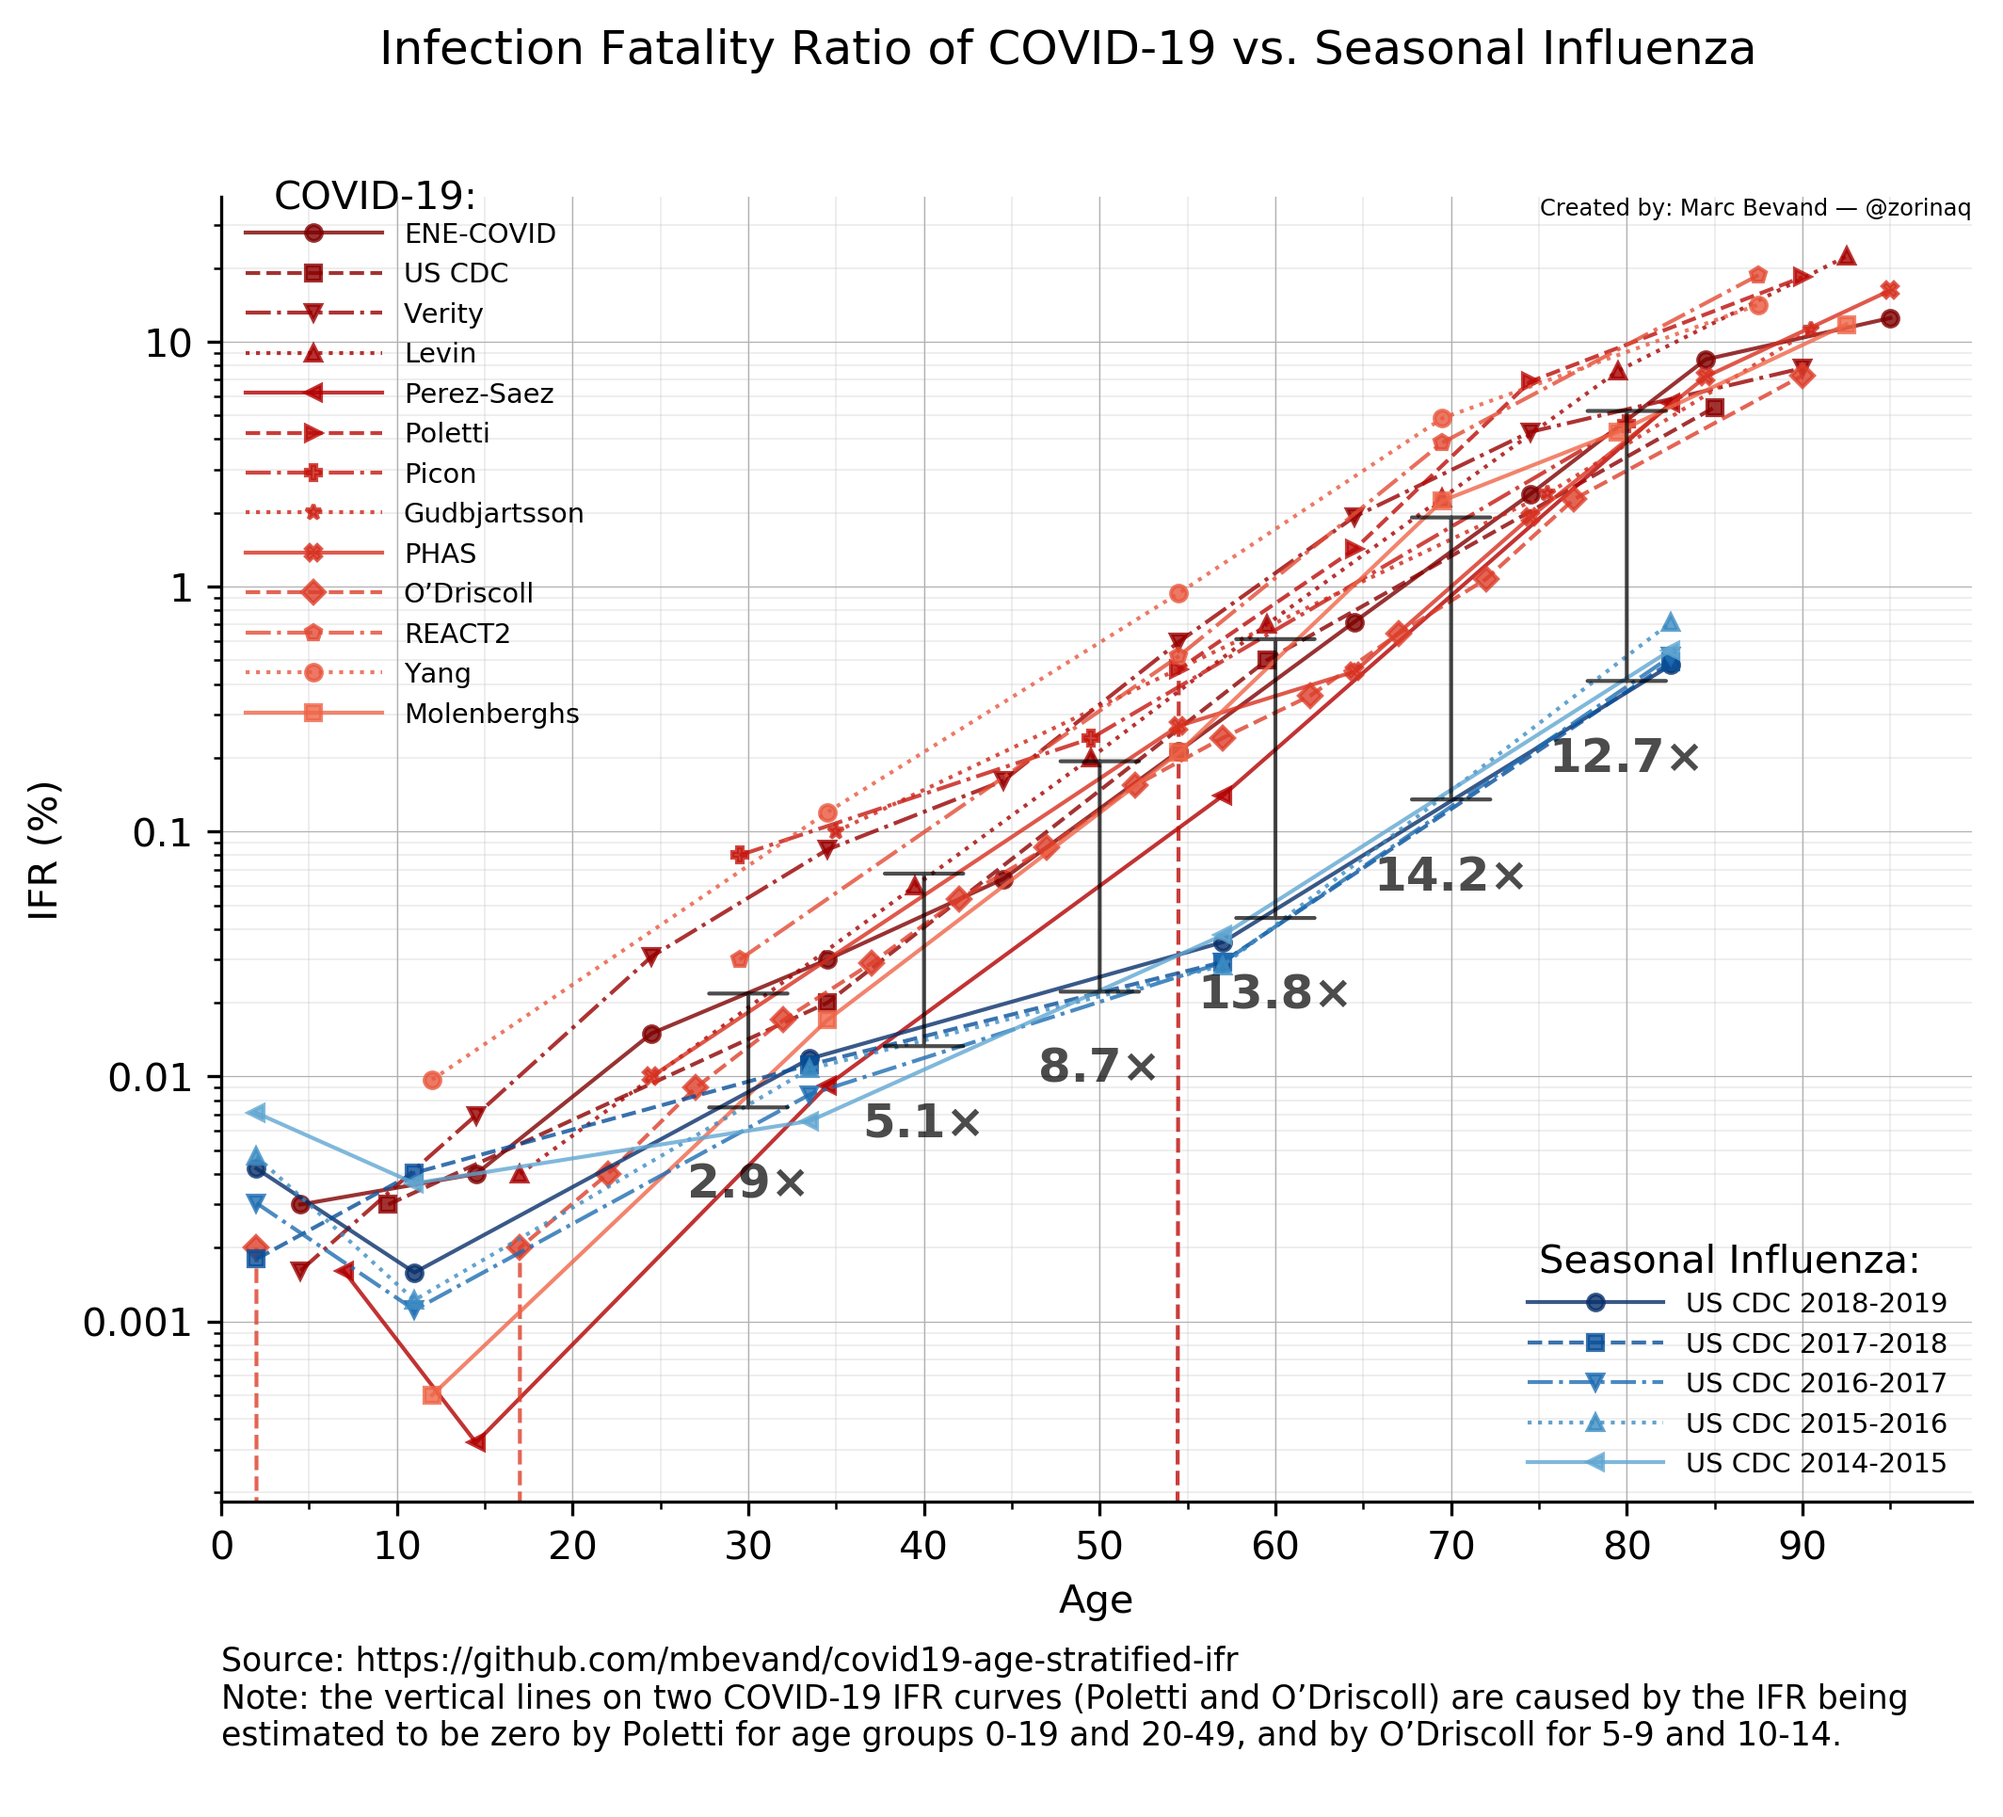
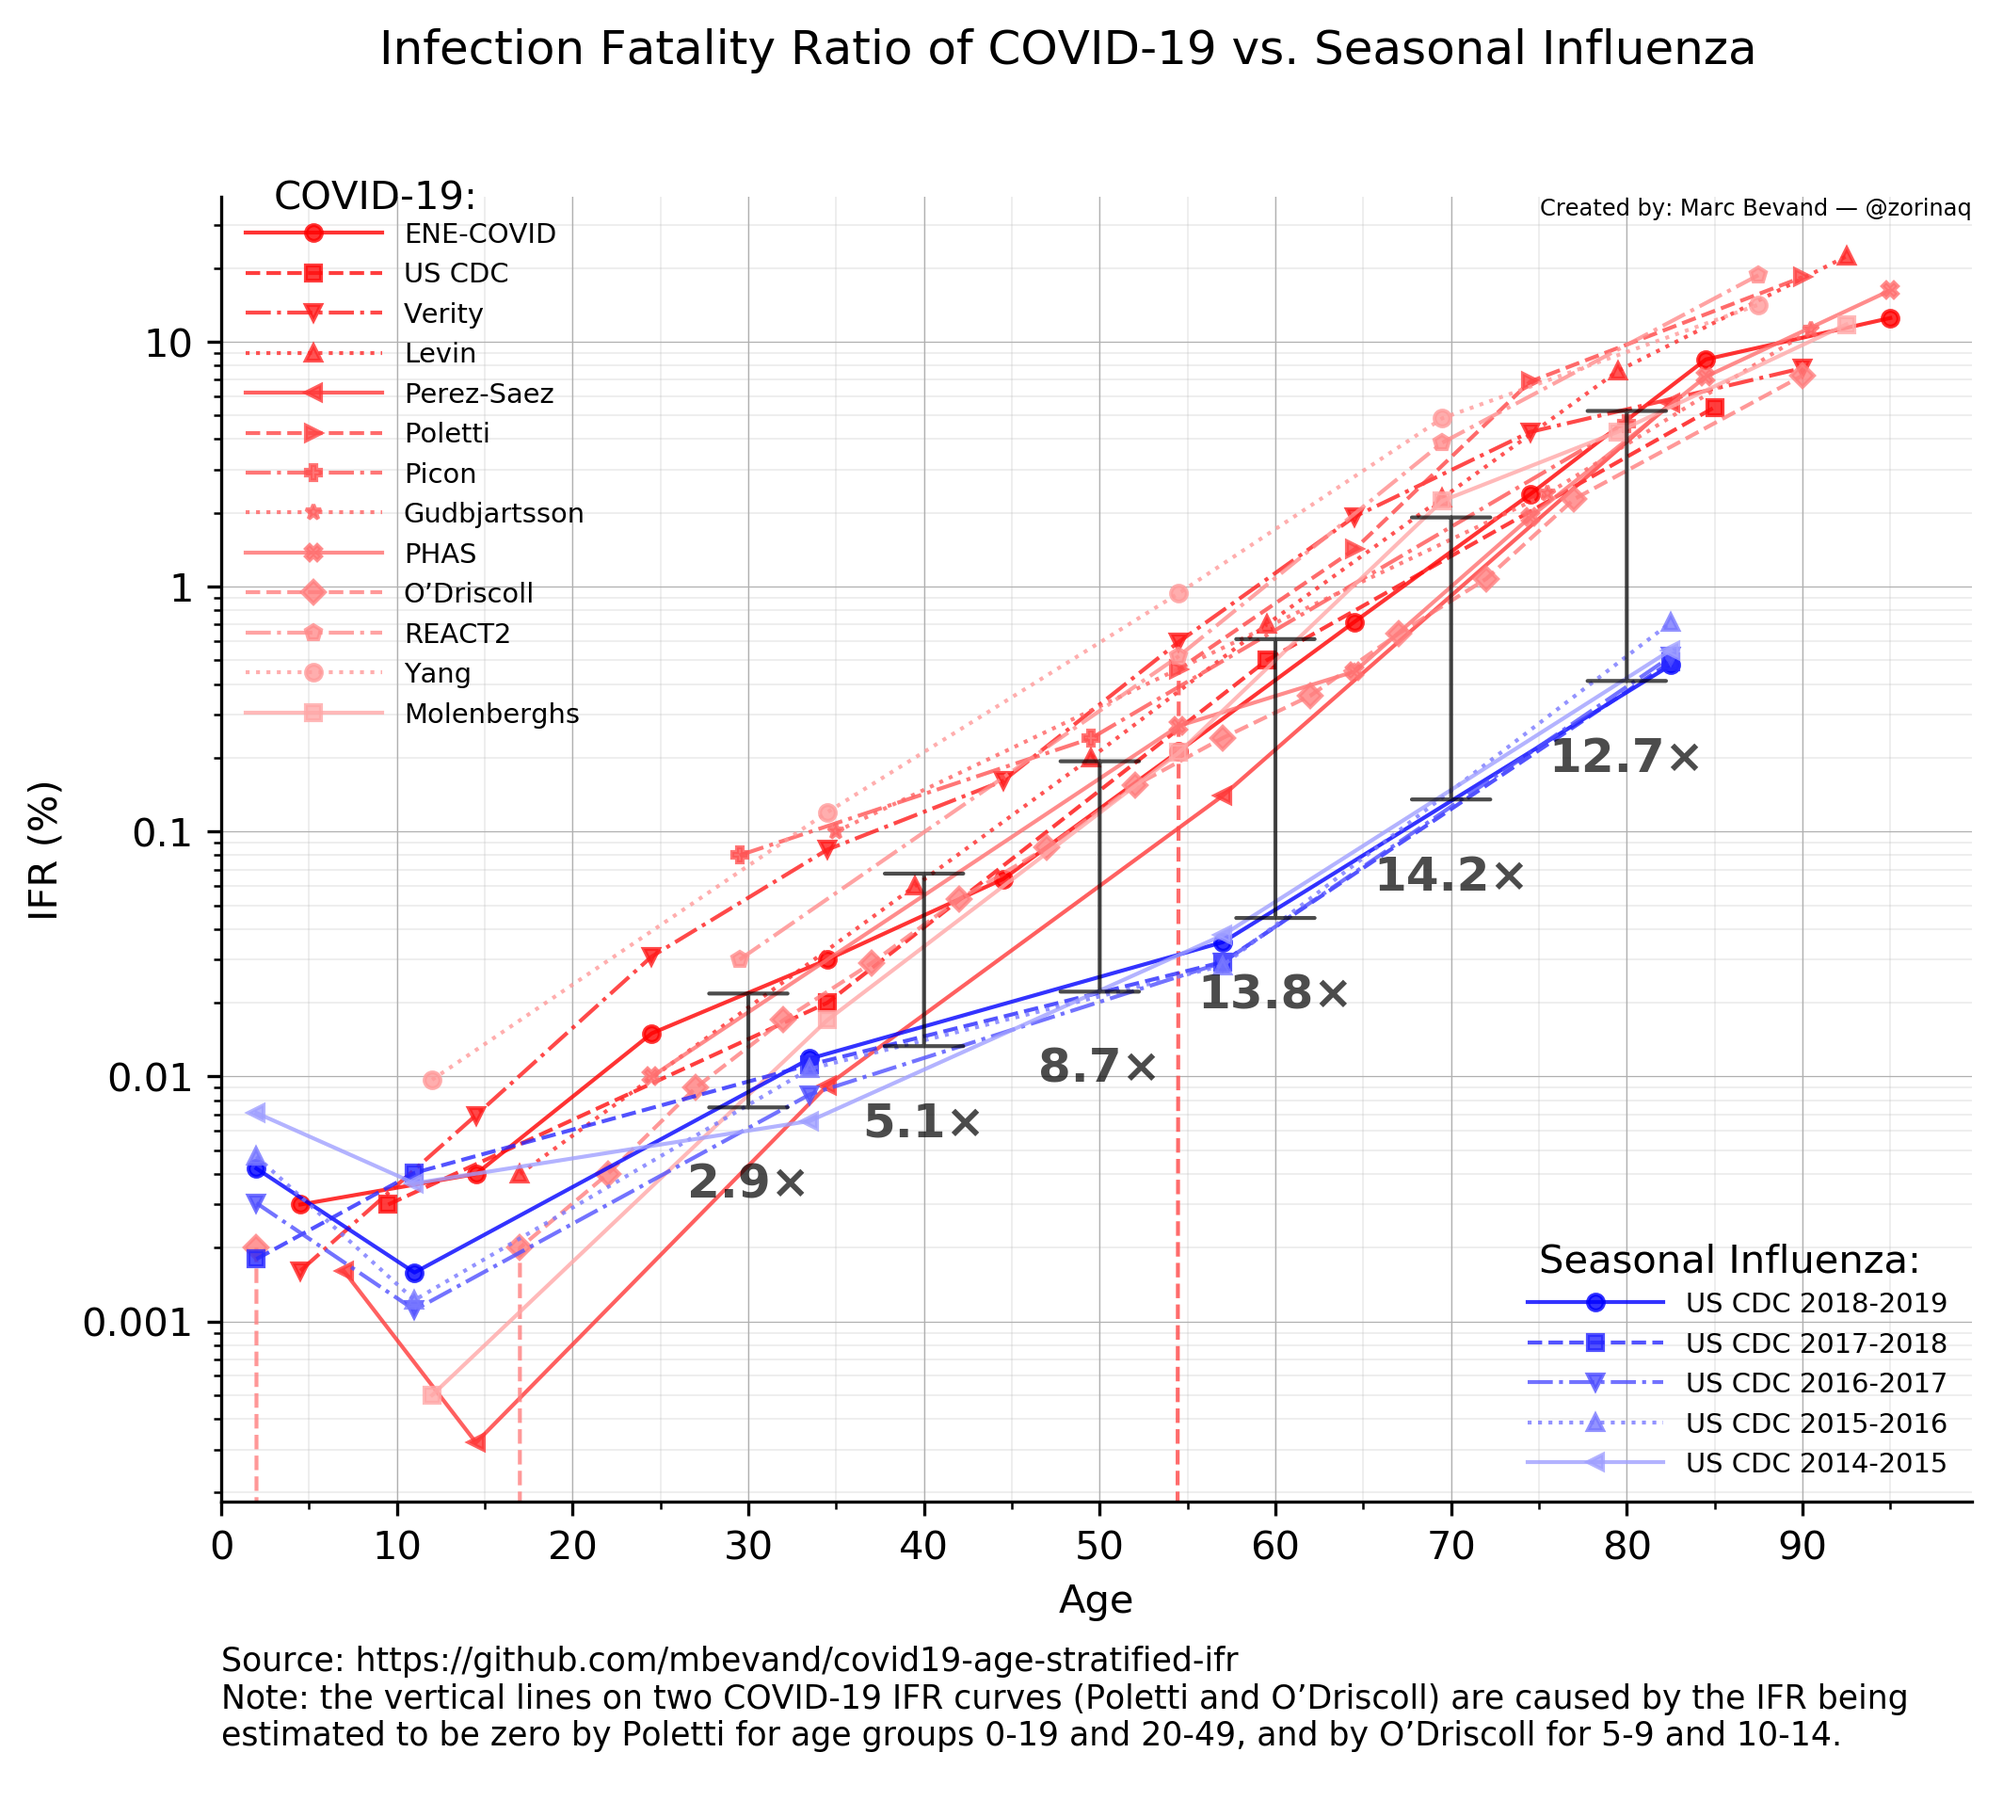
covid_vs_flu: change colormap

diff --git a/covid_vs_flu.py b/covid_vs_flu.py
@@ -262,9 +262,9 @@ ifrs_flu = [
 
 def col(is_covid, i):
     if is_covid:
-        return plt.cm.OrRd(255 - i * 8)
+        return plt.cm.bwr(255 - i * 7)
     else:
-        return plt.cm.Blues(255 - i * 30)
+        return plt.cm.bwr_r(255 - i * 20)
 
 def plot(ax, ifrs, is_covid):
     lstyles = ('solid', 'dashed', 'dashdot', 'dotted')
